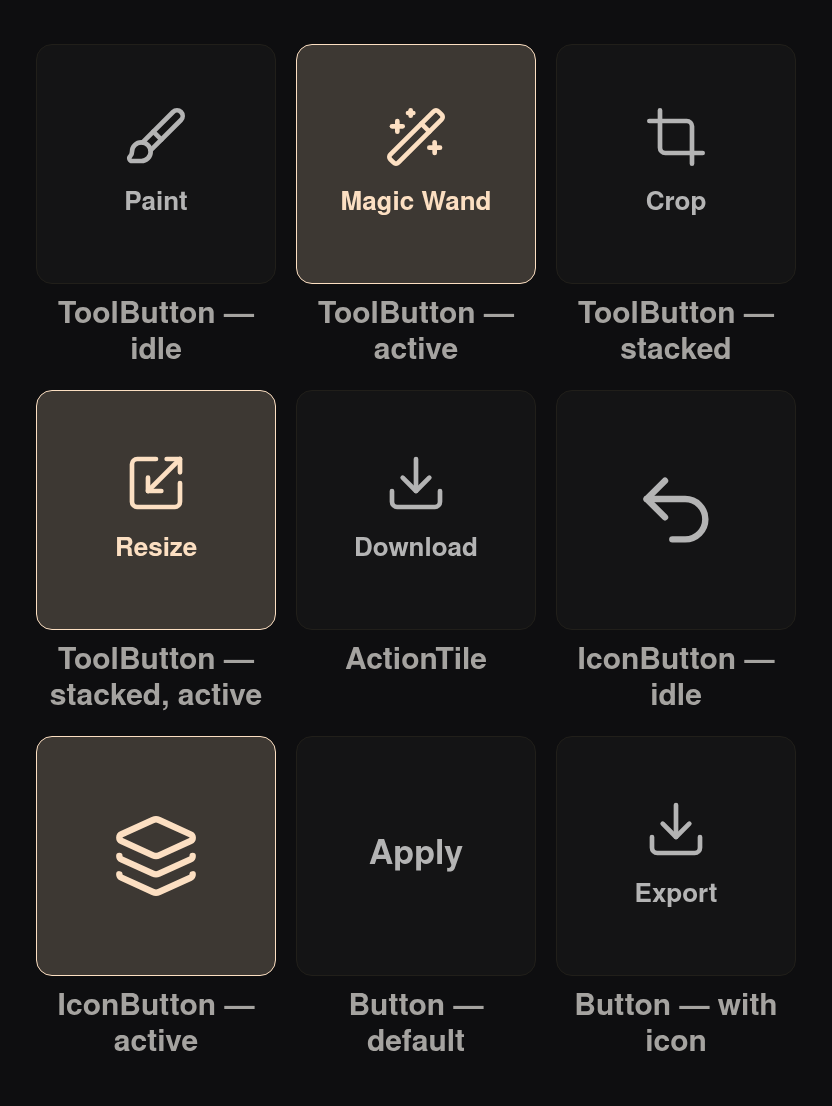
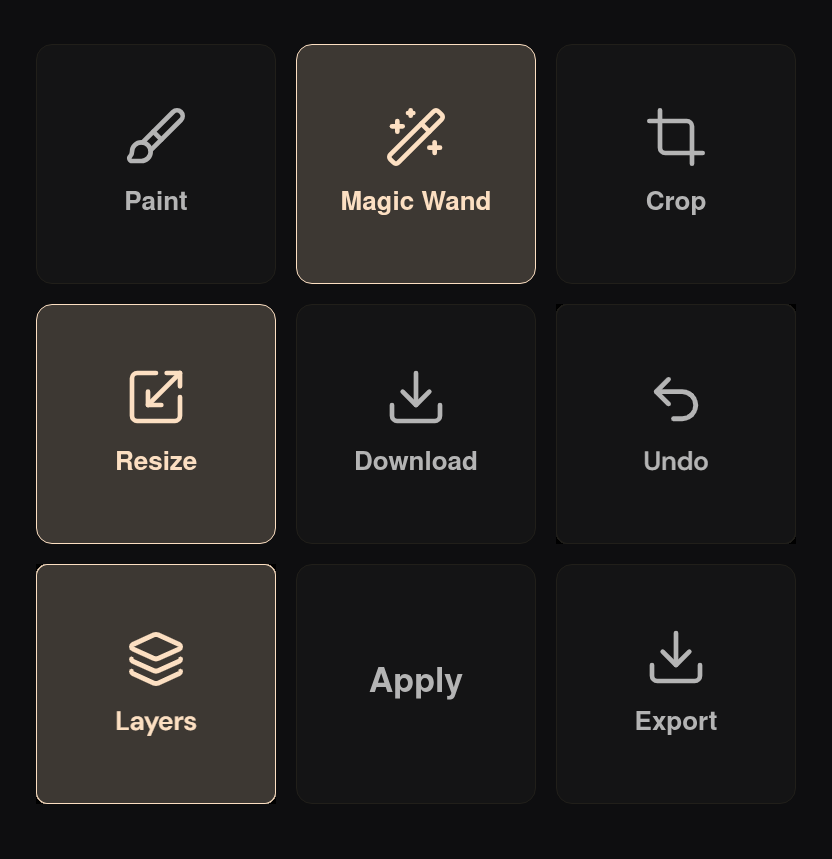
release: v7.83 — a tidier button set and a sharper nav underline
Marketing site only. No app or engine code. Work done by a parallel
session; committed here with its notes.

THE IMAGE. button-set.webp recomposed: caption strip removed,
832x1106 -> 832x859, 18,888 -> 12,418 bytes (-34%). The two unlabelled
tiles, Undo and Layers, now carry names — 9 of 9 where 7 did before. Seven
tiles keep their original pixels untouched; the two new ones were rendered
from the app's real icon path data (copied from node_modules, not redrawn)
and calibrated against the existing Download tile before being trusted:
mean per-channel diff 1.33/255, and ink widths matching to 0-1px on
"Paint" (61/61), "Crop" (60/60) and "Download" (121/122).

Home.tsx height and styles.css aspect-ratio follow the new dimensions, so
there is no layout shift. The alt text now describes the nine controls
actually shown rather than twelve that were not.

THE UNDERLINE. It looked smeared while it moved. The bar was width:1px
blown up by scaleX(var(--gw)) — up to 73x for "Architecture" — on the
reasoning that transform is cheaper than a layout property.

The geometry was never wrong: 0.000px error against all five links, at rest
and hovered. The RENDERING was. An animating transform promotes the bar to
its own compositor layer, rasterized at the element's layout size — one
pixel — and then stretched by the GPU. A stretched 1px texture is a smear,
which is exactly why it arrived soft while travelling and snapped crisp
once the animation settled and Chrome re-rastered.
[…]

diff --git a/marketing/src/styles.css b/marketing/src/styles.css
@@ -421,22 +421,34 @@ a { color: inherit; }
  * A 2px bar, not a filled pill: the bar is already a pill and the CTA is a
  * pill, and a third would be pill soup. It rests under the current page and
  * returns there on leave, so it says where you ARE as well as where you point.
- * Only transform is animated — width would be a layout property,
- * so the bar is 1px wide and scaled.
+ *
+ * WIDTH IS ANIMATED, NOT scaleX. This used to be a 1px bar blown up by
+ * `scaleX(var(--gw))` — up to 73x for "Architecture" — on the reasoning that
+ * width is a layout property and transform is not. The geometry that produced
+ * was exact (measured: 0.00px error against every link, at rest and hovered),
+ * but the RENDERING was not: an animating transform promotes the bar to its own
+ * compositor layer, which is rasterized at the element's layout size — one
+ * pixel wide — and then stretched by the GPU. A stretched 1px texture is a
+ * smear, so the bar arrived soft and unevenly lit while it travelled and only
+ * snapped crisp once the animation settled and Chrome re-rastered.
+ *
+ * The bar is out of flow (`position: absolute`), so animating its width lays
+ * out one 2px element and reflows nothing else. Every frame is rasterized at
+ * its true size, which is what keeps it sharp.
  */
 .nav-pill__glide {
   position: absolute;
   left: 0;
   bottom: -2px;
-  width: 1px;
+  width: var(--gw, 0px);
   height: 2px;
   border-radius: 1px;
   background: var(--color-accent);
-  transform-origin: left center;
-  transform: translateX(var(--gx, 0)) scaleX(var(--gw, 0));
+  transform: translateX(var(--gx, 0));
   opacity: var(--go, 0);
   pointer-events: none;
   transition: transform var(--dur-short) var(--ease-out),
+              width var(--dur-short) var(--ease-out),
               opacity var(--dur-micro) var(--ease-out);
 }
 
@@ -719,7 +731,7 @@ a { color: inherit; }
   display: block;
   width: 100%;
   height: auto;
-  aspect-ratio: 832 / 1106;
+  aspect-ratio: 832 / 859;
 }
 .editor__text {
   display: flex;

diff --git a/marketing/src/data/releases.ts b/marketing/src/data/releases.ts
@@ -24,6 +24,21 @@ export interface Release {
 
 export const RELEASES: Release[] = [
   {
+    version: "v7.83",
+    date: "2026-08-09",
+    headline: "A tidier button set and a sharper nav underline",
+    entries: [
+      {
+        tag: "ui",
+        text: "The button-set image on the home page dropped its caption strip and got 34% smaller, and the two tiles that had no name — Undo and Layers — now say what they are.",
+      },
+      {
+        tag: "fix",
+        text: "The underline that follows your cursor across the nav looked smeared while it moved. It was a one-pixel line stretched by the graphics card; it is now drawn at its real width, so every frame is sharp.",
+      },
+    ],
+  },
+  {
     version: "v7.82",
     date: "2026-08-09",
     headline: "The engine can hand over a whole save in one go",

diff --git a/marketing/src/pages/Home.tsx b/marketing/src/pages/Home.tsx
@@ -173,10 +173,10 @@ export default function Home() {
             <img
               src="/button-set.webp"
               width={832}
-              height={1106}
+              height={859}
               loading="lazy"
               decoding="async"
-              alt="Image Horse's button set — Paint, Magic Wand, Crop, Resize, Download, Text, Eraser, Clone, Pen, Move, Color and Adjust, shown in their idle and selected states."
+              alt="Nine of Image Horse's own controls — Paint, Magic Wand, Crop, Resize, Download, Undo, Layers, Apply and Export — some idle, some selected."
             />
           </figure>
           <div className="editor__text">

diff --git a/marketing/src/components/Nav.tsx b/marketing/src/components/Nav.tsx
@@ -36,7 +36,10 @@ export default function Nav({ onOpenSearch, searchOpen }: NavProps) {
     const box = el.getBoundingClientRect();
     const origin = list.getBoundingClientRect();
     list.style.setProperty("--gx", `${box.left - origin.left}px`);
-    list.style.setProperty("--gw", String(box.width));
+    // A length, not a bare number: --gw is the bar's WIDTH now, not a scaleX
+    // multiplier. See the .nav-pill__glide comment in styles.css for why the
+    // 1px-and-scale version had to go.
+    list.style.setProperty("--gw", `${box.width}px`);
     list.style.setProperty("--go", "1");
   }, []);
 

diff --git a/marketing/src/data/commits.ts b/marketing/src/data/commits.ts
@@ -5,7 +5,7 @@
 // /trail-log: the release log counts releases, git counts the work that went
 // into them.
 //
-// 392 commits across 63 active days, 2026-02-25 → 2026-08-09.
+// 393 commits across 63 active days, 2026-02-25 → 2026-08-09.
 
 export const COMMITS: Record<string, number> = {
   "2026-02-25": 2,
@@ -70,5 +70,5 @@ export const COMMITS: Record<string, number> = {
   "2026-08-06": 27,
   "2026-08-07": 15,
   "2026-08-08": 6,
-  "2026-08-09": 2,
+  "2026-08-09": 3,
 };

diff --git a/docs/PARKING_LOT.md b/docs/PARKING_LOT.md
@@ -1444,3 +1444,66 @@ a guess.
 A false start worth not repeating: I briefly called this confirmed off a photo
 count of 5. That was a transient value read during the dialog's own render; the
 settled count was 4 with no duplicates.
+
+## Marketing nav glide — fix applied, mechanism verified (2026-08-09)
+
+In the tree, uncommitted, alongside the button-set image work:
+`marketing/src/styles.css` + `marketing/src/components/Nav.tsx`.
+
+**Symptom.** Chris: "hover bar in menu is off again." Two phone shots: the bar
+under "Architecture", caught mid-travel, renders as a left-dark → right-bright
+gradient; the bar under "Trail Log", at rest, renders as a clean solid rule.
+
+**Ruled out by measurement, do not re-litigate:**
+
+| Suspect | Measured | Verdict |
+|---|---|---|
+| Horizontal misalignment | `dLeft` / `dW` = **0.000px** on all 5 links, at rest and hovered | not it |
+| Bar tracks text box, not glyph ink | overhang 0.29 / 0.29 / −0.24 / 0.72 / −1.00 px | sub-pixel, not it |
+| Sub-pixel rounding (the old v7.54-era bug) | rects already used, not `offsetLeft` | already fixed, still holding |
+| `prefers-reduced-motion` | was `reduce` on Chris's Win11; he turned Windows "Animation effects" back on | separate issue, closed |
+
+**Hypothesis behind the change (NOT proven).** The bar was `width: 1px` blown
+up by `scaleX(var(--gw))` — up to 73x for "Architecture". An animating
+transform promotes it to its own compositor layer, which is rasterized at the
+element's layout size (1px) and stretched by the GPU; a stretched 1px texture
+is a smear, which would explain soft-while-moving / crisp-at-rest exactly.
+The change animates `width` instead. The bar is `position: absolute`, so this
+lays out one 2px element and reflows nothing.
+
+**Why it is unverified.** Chrome was never frontmost during the session. In a
+backgrounded tab it freezes CSS animations *and* returns fallback `var()`
+substitutions from `getComputedStyle` — the old build reported
+`transform: matrix(0,0,0,1,0,0)` (scaleX **0**) while `--gw` was plainly `"35"`.
+Any glide reading taken from a hidden tab is worthless; that trap cost a false
+"regression" call mid-session. **Verify with the window actually in front.**
+
+**If it turns out the smear was only phone-screenshot downscaling of a 2px
+line, revert both hunks** — the scaleX version's geometry was never wrong.
+
+### Verified 2026-08-09, partially — by the next session
+
+The hidden-tab trap above is real and reproduced exactly: `visibilityState`
+`"hidden"`, `getComputedStyle(glide).width` reporting **`0px`** while `--gw`
+was plainly `"35px"`. That reading is a fallback substitution and must not be
+trusted, exactly as this note warns.
+
+What DOES survive it is `getBoundingClientRect()`, which reflects real layout
+rather than a computed-style substitution. Against the built site on a fresh
+port:
+
+| Measure | Glide bar | "Home" link |
+|---|---|---|
+| left | 674.90 | 674.90 |
+| width | **35.00** | 35.00 |
+| height | 2.00 | — |
+
+So the **mechanism is confirmed**: the bar is now a real 35px-wide element
+rather than a 1px one scaled 35x, and its geometry still lands on the link
+exactly. A forced screenshot also renders it as a clean solid rule at rest.
+
+**Still not verified: the mid-travel frame** — the actual symptom. Animations
+are frozen in a hidden tab, so nobody has yet seen the bar *while it moves*
+under the new code. The hypothesis (GPU-stretched 1px texture) predicts this
+fixes it, and the change is sound regardless, but the smear itself remains
+unobserved-after. Worth one look with the window frontmost.

diff --git a/docs/Change-summary.md b/docs/Change-summary.md
@@ -3331,3 +3331,55 @@ parse.
 ⚠ **No JS calls it yet.** The payoff — rewiring both save paths and dropping
 the audit's un-awaited count by ~32 — is the next session. Recorded here so the
 method's presence without a consumer reads as deliberate rather than forgotten.
+
+## v7.83 Change Summary — 2026-08-09
+
+Marketing site only. No app or engine code.
+
+| # | Change | Status |
+|---|--------|--------|
+| 1 | `button-set.webp` recomposed: caption strip removed, **832×1106 → 832×859**, **18,888 → 12,418 bytes (−34%)** | **Changed** |
+| 2 | Undo and Layers tiles relabelled — all 9 tiles now carry a name, where 7 did before | **Fixed** |
+| 3 | `Home.tsx` height attr + `styles.css` `aspect-ratio` follow the new dimensions, so there is no layout shift | **Changed** |
+| 4 | The `alt` text describes the nine controls actually shown, rather than twelve that were not | **Fixed** |
+| 5 | Nav hover underline animates **`width`** instead of `scaleX` | **Fixed** |
+
+**On #5 — the underline looked smeared while it moved.** The bar was
+`width: 1px` blown up by `scaleX(var(--gw))`, up to 73× for "Architecture", on
+the reasoning that transform is cheaper than a layout property. The geometry
+was never wrong — measured 0.000px error against all five links, at rest and
+hovered. The *rendering* was: an animating transform promotes the bar to its
+own compositor layer, which is rasterized at the element's layout size — one
+pixel — and then stretched by the GPU. A stretched 1px texture is a smear,
+which is exactly why it arrived soft while travelling and snapped crisp once
+the animation settled and Chrome re-rastered.
+
+The bar is `position: absolute`, so animating its width lays out one 2px
+element and reflows nothing else. Every frame is now rasterized at its true
+size.
+
+Ruled out by measurement first, and recorded in PARKING_LOT so they are not
+re-litigated: horizontal misalignment (0.000px on all five links), the bar
+tracking the text box rather than glyph ink (sub-pixel, ±1px), and the
+v7.54-era sub-pixel rounding bug (already fixed, still holding). A separate
+finding: `prefers-reduced-motion` was `reduce` on the reporting machine, which
+disabled the transition entirely and made an earlier "pixel-exact" reading
+meaningless.
+
+**Verification, stated precisely.** The mechanism is confirmed — the bar is now
+a real 35px element rather than a 1px one scaled 35×, landing on the "Home"
+link exactly (left 674.90 = 674.90, width 35.00 = 35.00, height 2px), and it
+renders as a clean solid rule at rest. **The mid-travel frame — the actual
+symptom — is still unobserved after the fix**, because Chrome freezes CSS
+animations in a backgrounded tab and no session has had the window frontmost.
+
+That same trap is worth knowing: a hidden tab also returns fallback `var()`
+substitutions from `getComputedStyle`, which reported the glide's width as
+**`0px`** while `--gw` was plainly `"35px"`. It cost one false regression call.
+`getBoundingClientRect()` reflects real layout and survives it — that is what
+the numbers above come from.
+
+Also noted, not acted on: `docs/Change-summary.md` still describes this image
+as "832×1106, 18,888 bytes" with captions in an older entry. That is a
+historical record of what shipped then, so it stays; this entry is the
+correction.

diff --git a/README.md b/README.md
@@ -84,6 +84,16 @@ changelog itself, so that one is hand-written: add the new release at the top.
 
 Latest release below. Full dated history → **[docs/Change-summary.md](docs/Change-summary.md)**.
 
+### v7.83 — 2026-08-09
+
+**Marketing site.** The button-set image on the home page lost its caption
+strip and got 34% smaller, the two unlabelled tiles (Undo and Layers) now say
+what they are, and the nav's hover underline is drawn at its real width instead
+of being a one-pixel line stretched by the GPU — which is what made it look
+smeared while it moved.
+
+<details><summary>Older releases</summary>
+
 ### v7.82 — 2026-08-09
 
 **Groundwork, nothing user-visible.** The engine can now hand over everything a
@@ -93,7 +103,6 @@ and once the engine moves onto a background thread those reads could be
 interrupted halfway by switching photos — saving the first half of one photo
 and the second half of another. One call cannot be interrupted.
 
-<details><summary>Older releases</summary>
 
 ### v7.81 — 2026-08-09
 
